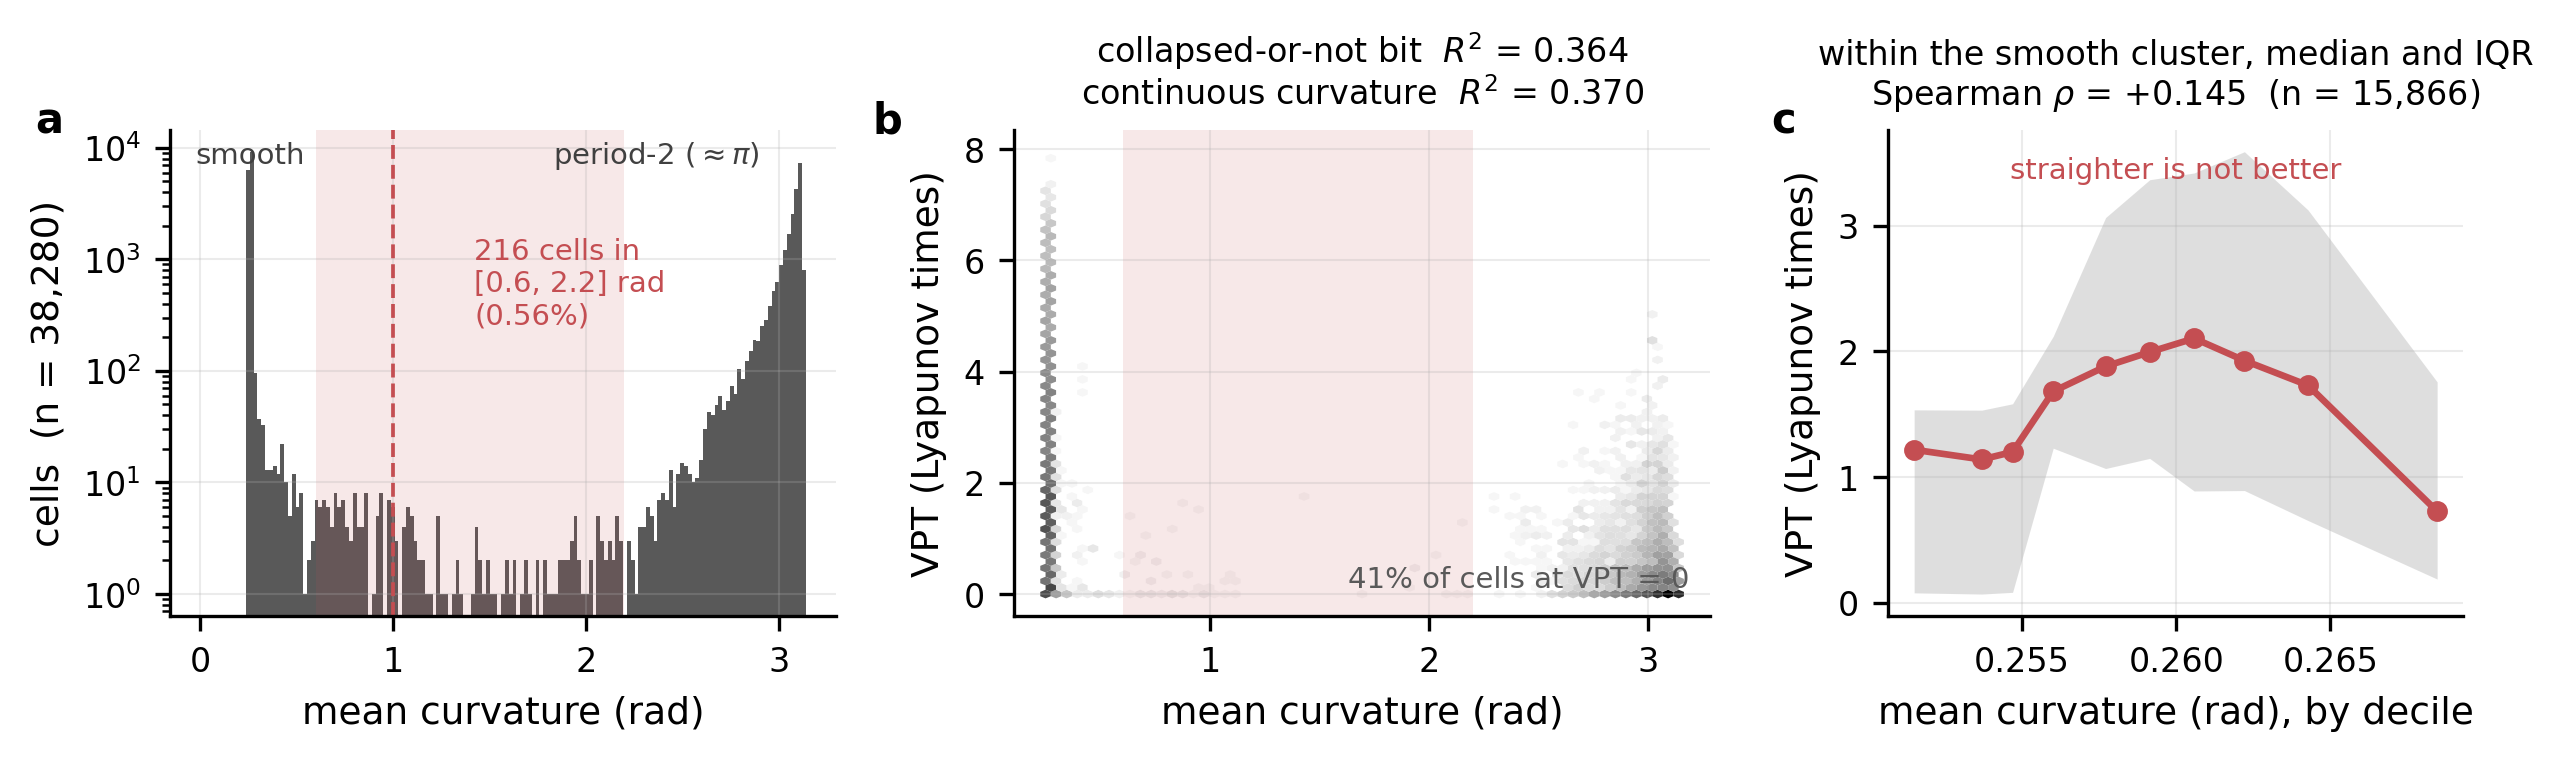
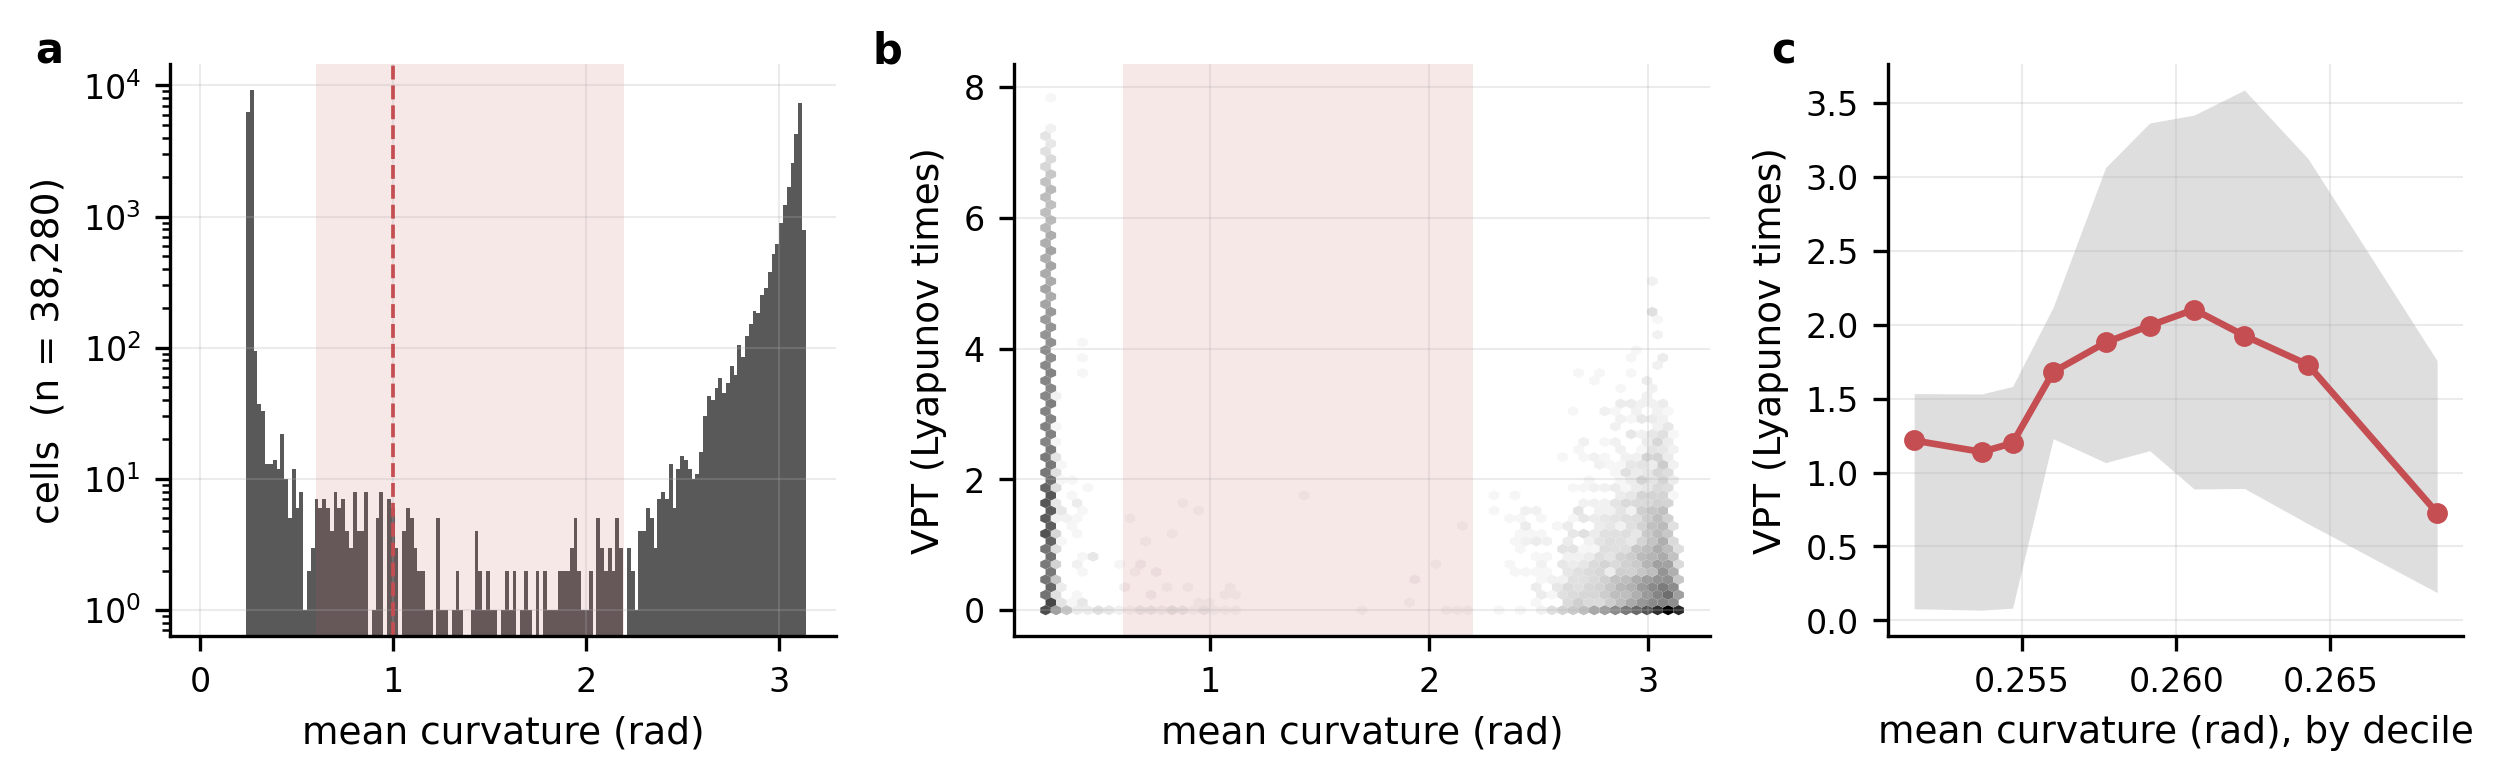
docs(act3b): define the cell; strip F12's titles and in-panel annotations
Adds section 2.0 stating what a cell is -- one Lorenz evaluation keyed by
(variant, f, sigma, seed, draw), 38,280 of them -- and, more importantly,
that a cell is not an independent observation. The three draws of a seed
share its mask, Win and input series; at f = 0 the sign transform is the
identity and the draws are literally identical, which is now measured
rather than asserted: 100% of (variant, sigma, seed) groups return the same
curvature and the same VPT across all three draws, and at f = 0.25 VPT is
still identical in 45.1% of them. The independent unit is the seed, so the
effective n is nearer 12,760 than 38,280. Notes where this bites (anything
quoting an SE, CI or p-value over pooled cells) and where it does not
(F12's panels, which describe the shape of a distribution).

F12's panels are now bare on the author's decision: no titles, and none of
the five in-panel annotations. Everything they carried -- the 216-cell gap
count, both R2, the 41% VPT floor, Spearman rho and the cluster size -- moves
into the caption. Each is still computed in the builder and each is now
guarded by an assertion, including two new ones on the gap fraction and the
floor fraction, so the caption cannot drift from the data without the build
failing. A bare figure depends on its caption being right, which makes the
caption's numbers the ones under test.

diff --git a/report/figlib/figures/act3_prediction.py b/report/figlib/figures/act3_prediction.py
@@ -61,6 +61,14 @@ def f12_curvature_is_bimodal(ctx):
     (turning angle between successive velocity vectors, pi = antiparallel), while VPT
     is a **free-run** outcome. The figure relates a driven-manifold diagnostic to a
     closed-loop capacity; that is the claim, and the caption says so.
+
+    **No panel carries a title or an in-panel annotation** (author's decision, 20 August
+    2026). Every number that was written into the panels -- the gap count, the two R^2,
+    the VPT floor fraction, Spearman rho and the cluster size -- now lives in the caption
+    in `report/act3b_prediction.md` §3. They are all still *computed* here, and each is
+    now guarded by an assertion, so the caption cannot drift away from the data without
+    the build failing. That is the trade: a figure whose panels are bare depends on its
+    caption being right, so the caption's numbers are the ones under test.
     """
     frame = ctx.frame("jacobian")
     curvature = frame.mean_curvature.to_numpy(float)
@@ -79,18 +87,16 @@ def f12_curvature_is_bimodal(ctx):
     axes[0].set_yscale("log")
     axes[0].set_xlabel("mean curvature (rad)")
     axes[0].set_ylabel(f"cells  (n = {n_cells:,})")
+    # The counts are still computed -- they gate the figure and they are quoted in the
+    # caption -- but nothing is written into the panel. The shaded band and the dashed
+    # separator carry the structure; naming the two modes and counting the gap is the
+    # caption's job.
     between = int(((curvature >= CURVATURE_GAP[0])
                    & (curvature <= CURVATURE_GAP[1])).sum())
-    axes[0].annotate(f"{between} cells in\n[0.6, 2.2] rad\n"
-                     f"({100 * between / n_cells:.2f}%)",
-                     xy=(1.42, 0.60), xycoords=("data", "axes fraction"),
-                     ha="left", fontsize=style.TICK_SIZE - 1,
-                     color=style.ANNOTATION_ACCENT)
-    axes[0].annotate("smooth", xy=(0.26, 0.93), xycoords=("data", "axes fraction"),
-                     ha="center", fontsize=style.TICK_SIZE - 1, color="0.25")
-    axes[0].annotate(r"period-2 ($\approx \pi$)", xy=(2.90, 0.93),
-                     xycoords=("data", "axes fraction"), ha="right",
-                     fontsize=style.TICK_SIZE - 1, color="0.25")
+    assert ctx.placeholder or between < 0.01 * n_cells, (
+        f"F12: {between} cells ({100 * between / n_cells:.2f}%) lie in "
+        f"{CURVATURE_GAP} rad. The band is supposed to be near-empty; if it is not, the "
+        "bimodality claim in the caption is wrong and the caption is what a reader sees.")
 
     # --- (b) the bit explains as much as the quantity ------------------------------
     bit = (curvature > COLLAPSE_BIT).astype(float)
@@ -109,13 +115,12 @@ def f12_curvature_is_bimodal(ctx):
     axes[1].axvspan(*CURVATURE_GAP, color=style.ANNOTATION_ACCENT, alpha=0.13, lw=0)
     axes[1].set_xlabel("mean curvature (rad)")
     axes[1].set_ylabel("VPT (Lyapunov times)")
-    axes[1].set_title(f"collapsed-or-not bit  $R^2$ = {r2_bit:.3f}\n"
-                      f"continuous curvature  $R^2$ = {r2_continuous:.3f}",
-                      fontsize=style.TITLE_SIZE - 1)
+    # Both R^2 and the floor fraction go in the caption, not on the panel. They are still
+    # computed here so the assertion above can gate them and so the caption cannot drift
+    # from the data without the build failing.
     floor = float((vpt == 0).mean())
-    axes[1].annotate(f"{100 * floor:.0f}% of cells at VPT = 0",
-                     xy=(0.97, 0.06), xycoords="axes fraction", ha="right",
-                     fontsize=style.TICK_SIZE - 1, color="0.35")
+    assert ctx.placeholder or 0.35 < floor < 0.50, (
+        f"F12: {100 * floor:.1f}% of cells sit at VPT = 0; the caption says 41%.")
 
     # --- (c) within the straight cluster the residual runs the WRONG way -----------
     # Shown as curvature deciles, not as a scatter: 99% of the smooth cluster sits in a
@@ -137,12 +142,8 @@ def f12_curvature_is_bimodal(ctx):
     axes[2].plot(centres, medians, marker="o", ms=4, color=style.ANNOTATION_ACCENT, lw=1.6)
     axes[2].set_xlabel("mean curvature (rad), by decile")
     axes[2].set_ylabel("VPT (Lyapunov times)")
-    axes[2].set_title("within the smooth cluster, median and IQR\n"
-                      r"Spearman $\rho$ = " + f"+{rho:.3f}  (n = {int(straight.sum()):,})",
-                      fontsize=style.TITLE_SIZE - 1)
-    axes[2].annotate("straighter is not better", xy=(0.5, 0.90),
-                     xycoords="axes fraction", ha="center",
-                     fontsize=style.TICK_SIZE - 1, color=style.ANNOTATION_ACCENT)
+    # rho, the cluster size and the reading of them are the caption's. What the panel has
+    # to do unaided is show a line that does not fall as curvature rises.
 
     for ax, letter in zip(axes, "abc"):
         style.panel_label(ax, letter, dx=-0.16)

diff --git a/report/act3b_prediction.md b/report/act3b_prediction.md
@@ -58,6 +58,59 @@ this register, not the other way round.
 
 ## 2. Reproduction gate
 
+### 2.0 What a "cell" is, since every number in this act is counted in them
+
+A **cell** is one row of the capture: one complete Lorenz evaluation of one reservoir at
+one operating point. It is the unit F12, F13, F14 and F17 all plot, and the unit every
+count in the gate table below is expressed in, so it is worth stating once rather than
+leaving a reader to infer it.
+
+A cell is keyed by five coordinates:
+
+| coordinate | values | what it changes |
+|---|---|---|
+| `variant` | 4 | which substrate: connectome, weight-permuted, degree-matching, Erdős–Rényi |
+| `f` | 11 (0 to 0.50, step 0.05) | the fraction of edges given a negative sign |
+| `spectral_radius` σ | 29 (0 to 11.2, step 0.4) | how hard `W` is driven |
+| `seed` | 10 | the null instance, `Win`, and the Lorenz initial condition |
+| `draw` | 3 | which stratified realisation of the sign-flip pattern |
+
+4 × 11 × 29 × 10 × 3 = **38,280**, which is the cell count `TIER0` §3.10 quotes.
+
+**What happens inside one cell.** Build the reservoir from that (`variant`, `f`, `seed`,
+`draw`) matrix, rescaled to σ; teacher-force 10,000 Lorenz steps to get a 10,000 × 448
+driven state matrix, from which `mean_curvature`, `σ_eff`, `mean_state` and
+`frac_saturated` are read; fit the ridge readout on those states; then cut the reservoir
+loose and free-run it, from which `vpt` and `climate_error` are read. **A cell is
+therefore already an aggregate** — `mean_curvature` is a mean over ~10,000 steps and `vpt`
+a mean over 20 rollouts — and it contributes exactly **one point**, not a distribution, to
+any figure.
+
+> **A cell is not an independent observation, and the figures must not be read as though
+> 38,280 of them were.** The three draws of a seed share its mask, its `Win` and its input
+> series; only the flip pattern differs. At `f` = 0 the sign transform is the identity, so
+> the draws are **literally identical** — checked here, and **100%** of (variant, σ, seed)
+> groups return the same `mean_curvature` and the same `vpt` across all three draws. At
+> `f` = 0.25, curvature differs across draws in 96.6% of groups but `vpt` is still
+> identical in **45.1%**, mostly because both sit on the VPT = 0 floor. **The independent
+> unit is the seed**, so the effective n is nearer 12,760 than 38,280, and nearer a third
+> of that again at low `f`. This is `TIER0` §2.3's "quote seeds, not replicates" rule, and
+> it is why F13's collapse panel counts **seeds** (5/10, 0/10) and why the Fisher test is
+> on 10 units per substrate rather than 30.
+
+**Where this bites and where it does not.** It does not threaten F12: panels (a) and (b)
+describe the *shape* of a distribution — a two-spike histogram and an R² comparison — and
+triplicating each seed inflates the count without moving the bimodality or shifting either
+R² materially, because the duplication is symmetric across the two clusters. It would bite
+any figure quoting a **standard error, a confidence interval or a p-value** over pooled
+cells, which is exactly why every such statement in this act comes from
+`e03_frontier_paired_scale_448.csv`, where the pairing is within seed, or from a seed
+count. **F12's panel labels quote the raw cell count**, which is the honest description of
+what is drawn; the caption states the unit so the count cannot be mistaken for a sample
+size.
+
+### 2.1 The gate
+
 Run before any figure work. **Result: PASSES.** Every quantity recomputed from the frozen
 artifacts; two small discrepancies logged rather than smoothed away.
 
@@ -160,30 +213,58 @@ One block per figure ID from `FIGURE_LIST.md`. **Caption written before the figu
 ### F12 — curvature is bimodal: generation is gated, not graded
 
 - **Claim carried:** A3P.1, A3P.2
-- **Source:** `e01_jacobian_scale_448.parquet`, no row filter (38,280 Lorenz cells =
-  4 variants × 11 `f` × 29 σ × 10 seeds × 3 draws)
-- **Panels:** (a) curvature histogram, log counts, with the empty band shaded and the
-  separator drawn; (b) VPT against curvature as a log-density hexbin with both R²;
-  (c) the smooth cluster alone, by curvature decile, median and IQR
+- **Source:** `e01_jacobian_scale_448.parquet`, no row filter — all **38,280 cells**
+  (§2.0 defines the unit: 4 variants × 11 `f` × 29 σ × 10 seeds × 3 draws, one Lorenz
+  evaluation each). Two columns only, and they come from **different regimes**:
+  `mean_curvature` from the teacher-forced driven states, `vpt` from the autonomous
+  free-run.
+- **Panels:** (a) curvature histogram, 160 bins over [0, π], log counts, with the
+  between-mode band shaded and the separator dashed; (b) VPT against curvature as a
+  log-density hexbin, same band shaded; (c) the smooth cluster alone, binned into
+  curvature deciles, median and IQR
 - **Why it leads:** without it the entire switch framing reads as asserted.
 - **Panel (c) is deciles, not a scatter, and that is a decision not a default.** 99% of
   the smooth cluster sits in a ~0.017 rad column, so a hexbin of it is one dark stripe
   and the *sign* of the trend — which is the whole claim — is invisible. Deciles put the
-  rank statistic on the page as something a reader can see running upward.
+  rank statistic on the page as something a reader can see running upward. Note that ρ is
+  computed on all 15,866 raw cells, **not** on the ten decile points; the deciles are the
+  display, not the statistic.
+
+> **No titles, no in-panel annotations (author's decision, 20 August 2026).** The gap
+> count, the two R², the VPT floor fraction, Spearman ρ and the cluster size were all
+> written into the panels and are now **in the caption instead**. The panels keep only
+> what is structural: the shaded band, the dashed separator, and the axes. Every one of
+> those numbers is still computed in the builder and is now **guarded by an assertion**,
+> so the caption cannot drift away from the data without the build failing. That is the
+> trade a bare figure makes — it depends on its caption being right, so the caption's
+> numbers are the ones under test.
+
 - **Caption (final wording):** *Predictive capacity is gated by a regime, not graded by
-  curvature.* (a) Mean trajectory curvature over all 38,280 Lorenz cells is a two-spike
-  distribution: a smooth mode near 0.25 rad and a period-2 mode near π, with **216 cells
-  (0.56%) anywhere between**. The dashed line is the collapsed-or-not separator at 1 rad,
-  which sits in the empty band and is not a tuned threshold. (b) Against valid-prediction
-  time, a single binary "has it collapsed" bit explains **R² = 0.364**; the continuous
-  quantity manages **0.370**, so the entire 0.25 → 3.14 rad range is worth 0.7 percentage
-  points beyond the bit. 41% of cells sit at the VPT floor of exactly zero. (c) Within
-  the smooth cluster the residual relation runs the *wrong way* for a graded account:
-  Spearman ρ = **+0.145** over 15,866 cells, i.e. straighter is not better. Curvature is
-  measured on the teacher-forced state trajectory in ℝ⁴⁴⁸ and VPT on the autonomous
-  free-run; the figure relates a property of the driven manifold to a closed-loop
-  capacity. **This holds for `f` > 0 only** — at `f` = 0 curvature is flat across the
-  whole sweep while prediction falls tenfold (`TIER0` §3.11).
+  curvature.* Each point is one **cell**: one Lorenz evaluation of one substrate at one
+  sign fraction, spectral radius, seed and flip realisation (38,280 in all; the
+  independent unit is the seed, of which there are ten per condition). Curvature is
+  measured on the teacher-forced state trajectory in ℝ⁴⁴⁸ — the mean turning angle
+  between successive velocity vectors, so π means successive steps are antiparallel — and
+  valid-prediction time on the autonomous free-run, so the figure relates a property of
+  the driven manifold to a closed-loop capacity.
+  **(a)** Mean curvature is a two-spike distribution: a smooth mode at ~0.25 rad and a
+  period-2 mode at ~π. The shaded band marks the interval [0.6, 2.2] rad between them,
+  which holds **216 cells, 0.56% of the panel**; the dashed line at 1 rad is the
+  collapsed-or-not separator, which sits inside that empty band and is therefore not a
+  tuned threshold. Curvature is not a quantity this substrate takes intermediate values
+  of.
+  **(b)** Against valid-prediction time, a single binary "has it collapsed" bit explains
+  **R² = 0.364** of the variance; the continuous quantity manages **0.370**. The entire
+  0.25 → 3.14 rad range is worth **0.7 percentage points** beyond the bit. **41% of cells
+  sit at the VPT floor of exactly zero**, all of them in the collapsed mode.
+  **(c)** Within the smooth cluster alone (curvature < 1 rad, **n = 15,866**), binned into
+  curvature deciles with median and interquartile range, the residual relation runs the
+  *wrong way* for a graded account: **Spearman ρ = +0.145**. Straighter is not better.
+  The line rises over eight deciles and falls in the last, which is the widest bin and the
+  one reaching up to the separator.
+  **Scope: this holds for `f` > 0.** At `f` = 0 — the biologically real cut — curvature is
+  flat at 0.26 rad across the entire σ sweep while prediction falls roughly tenfold, so
+  geometry gates nothing there (`TIER0` §3.11, and §5 item 6 of this act).
 
 ### F13 — generation read as VPT, including at the biologically real cut
 
